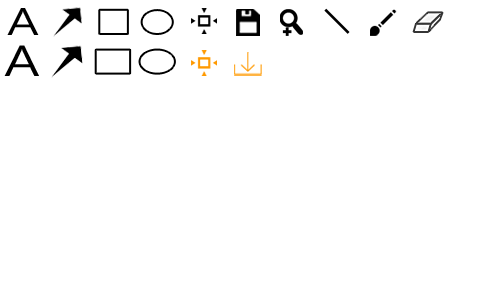
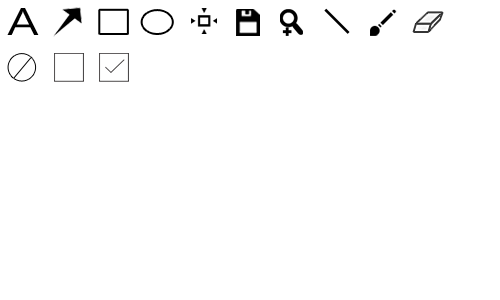
修正图片展示页有时候调用显示失败的问题

diff --git a/screenshot.js b/screenshot.js
@@ -274,9 +274,7 @@ initToolbar : function() {
    * colorTable
    */
   this.colorTable = new Q.ColorTable( { onchange : function( color ) {
-    Q.$( 'wayixia-screenshot-color-view' ).style.backgroundColor = color;
-    _this.context.strokeStyle = _this.contextI.strokeStyle = _this.contextC.strokeStyle = color;
-    _this.context.fillStyle = _this.contextI.fillStyle = _this.contextC.fillStyle = color;
+    _this.setColor( color );
   } } );
     
   Q.$( 'wayixia-screenshot-color' ).onclick = (function(t, e) { return function(evt) { 
@@ -287,9 +285,7 @@ initToolbar : function() {
    * widthSelector
    */
   this.widthSelector = new Q.WidthSelector( { onchange: function(width) { 
-    _this.context.lineWidth = _this.contextI.lineWidth = _this.contextC.lineWidth = width;
-    Q.$( 'wayixia-screenshot-line-width' ).style.height = width + 'px';
-    Q.$( 'wayixia-screenshot-line-text' ).innerText = width + 'px';
+    _this.setLineWidth( width );
   } } );
   
   Q.$( 'wayixia-screenshot-size' ).onclick = (function(t, e) { return function(evt) { 
@@ -325,6 +321,19 @@ createInterface : function() {
   this.contextI = this.canvasI.getContext('2d');
   this.contextC.strokeStyle = this.contextI.strokeStyle = 
   this.contextC.fillStyle = this.contextI.fillStyle = "#FF0033";
+},
+
+setColor : function( color ) {
+  Q.$( 'wayixia-screenshot-color-view' ).style.backgroundColor = color;
+  this.context.fillStyle = this.context.fillStyle = 
+  this.contextC.strokeStyle = this.contextI.strokeStyle = 
+  this.contextC.fillStyle = this.contextI.fillStyle = color;
+},
+
+setLineWidth : function( width ) {
+  this.context.lineWidth = this.contextI.lineWidth = this.contextC.lineWidth = width;
+  Q.$( 'wayixia-screenshot-line-width' ).style.height = width + 'px';
+  Q.$( 'wayixia-screenshot-line-text' ).innerText = width + 'px';
 },
 
 zoom : function(v) {
@@ -466,20 +475,19 @@ drawText : function(pntFrom, pntTo, context) {
   if(pntTo.y < pntFrom.y) 
     top = pntTo.y;
 
-  left += this.canvas.offsetLeft;
-  top  += this.canvas.offsetTop;
+  left += this.canvasC.offsetLeft;
+  top  += this.canvasC.offsetTop;
   var width = Math.abs(pntTo.x-pntFrom.x);
   var height = Math.abs(pntTo.y-pntFrom.y);
   ta.style.cssText = "overflow: hidden;position:absolute; background-color: transparent; "
     + "font-size: " + this.font_size + "px; line-height: " + (this.font_size+2) + "px; " 
-    + "border: 0px solid red; left:"+left+"px; top:"+top+";px; color: "+ this.context.fillStyle +"; width:"+width+"px; height:"+height+";";
-  this.canvas.parentNode.appendChild(ta);
+    + "border: 0px solid red; left:"+left+"px; top:"+top+";px; color: "+ context.fillStyle +"; width:"+width+"px; height:"+height+";";
+  this.canvasI.parentNode.appendChild(ta);
   ta.focus();
-  ta.onblur = (function(t, a) { return function() {
+  ta.onblur = (function(t, a, c) { return function() {
     var line_height = t.getIntValue(a.currentStyle.lineHeight);
-    var textCanvasCtx = t.context;
+    var textCanvasCtx = c;
     textCanvasCtx.font = a.currentStyle.fontSize +" " + a.currentStyle.fontFamily;
-    Q.printf(textCanvasCtx.font);
     textCanvasCtx.fillStyle = a.currentStyle.color;
     textCanvasCtx.strokeStyle = a.currentStyle.color; 
     textCanvasCtx.textAlign = "left";
@@ -507,7 +515,7 @@ drawText : function(pntFrom, pntTo, context) {
     textCanvasCtx.fillText( line, text_left, tt );
     a.style.display = "none";
     a.parentNode.removeChild(a);
-  }})(this, ta);
+  }})(this, ta, context);
 },
 
 drawBrush : function( pntTo, context ) {

diff --git a/display.html b/display.html
@@ -51,28 +51,28 @@
       <option value="size_3">__MSG_viewTypeSize3__(500x300)</option>
       </select>
     </a>
-    <a id="wayixia-filter-icon">&nbsp;</a>
-    <a>__MSG_filterWidth__</a>
-    <a>
+    <button id="wayixia-local-download" class="wayixia-toolbar-button download"> &nbsp; </button>
+    <button id="wayixia-add-block"  class="wayixia-toolbar-button block"> &nbsp; </button>
+    <button id="wayixia-select-all" class="wayixia-toolbar-button selectall ">&nbsp;</button>
+    <a id="wayixia-filter-icon" style="display:none;">&nbsp;</a>
+    <a style="display:none;">__MSG_filterWidth__</a>
+    <a style="display:none;">
       <div id="x-ctrl-mini-width" class="q-slider x" style="width: 100px; margin-top: 6px;">
         <div class="q-thumb" style="height:16px; width: 16px;margin:7px 0;"></div> 
       </div>
     </a>
-    <a id="wayixia-min-width">0px</a>
-    <a>__MSG_filterHeight__</a>
-    <a> 
+    <a id="wayixia-min-width" style="display:none;">0px</a>
+    <a style="display:none;">__MSG_filterHeight__</a>
+    <a style="display:none;"> 
       <div id="x-ctrl-mini-height" class="q-slider x" style="width: 100px; margin-top: 6px;">
         <div class="q-thumb" style="height:16px; width: 16px;margin:7px 0;"></div> 
       </div>
     </a>
-    <a id="wayixia-min-height">0px</a>
-    <a id="wayixia-select-all" class="q-checkbox">__MSG_selectAll__</a>
-    <a id="wayixia-show-block" class="q-checkbox checked"> __MSG_haveBlocked__(0) </a>
+    <a id="wayixia-min-height" style="display:none;">0px</a>
+    <a id="wayixia-show-block" style="display:none;" class="q-checkbox checked"> __MSG_haveBlocked__(0) </a>
     <!--button id="wayixia-bugs" href="#"  class="wayixia-ctrl-button" style="margin-left:0;">
       <span id="wayixia-bugs-num"></span>
     </button-->
-    <button id="wayixia-add-block" href="#" class="wayixia-ctrl-button">__MSG_addBlock__</button>
-    <button id="wayixia-local-download" href="#" class="wayixia-ctrl-button">__MSG_download__ </button>
   </div>
   <div id="wayixia-container">
     <div id="wayixia-list">

diff --git a/display.js b/display.js
@@ -146,7 +146,8 @@ function initialize () {
 
   function update_ui_count() {
     Q.$('wayixia-show-block').innerText = Q.locale_text('haveBlocked') + '('+blocked_images.length+')';
-    Q.$('wayixia-select-all').innerText = Q.locale_text('selectAll') + '('+accept_length+')';
+    //Q.$('wayixia-select-all').innerText = Q.locale_text('selectAll') + '('+accept_length+')';
+    //Q.$('wayixia-select-all').innerText = '('+accept_length+')';
   }
 
   function init_block_image_items(blocked_images) {

diff --git a/wayixia.css b/wayixia.css
@@ -107,6 +107,18 @@ button:hover.wayixia-ctrl-button
   color: #515151;
 }
 
+/** display toolbar button */
+.wayixia-toolbar-button.block {
+  background-position: left -45px;
+}
+
+.wayixia-toolbar-button.selectall {
+  background-position: -45px -45px;
+}
+
+.wayixia-toolbar-button.selectall.checked {
+  background-position: -90px -45px;
+}
 
 
 #wayixia-overlay {
